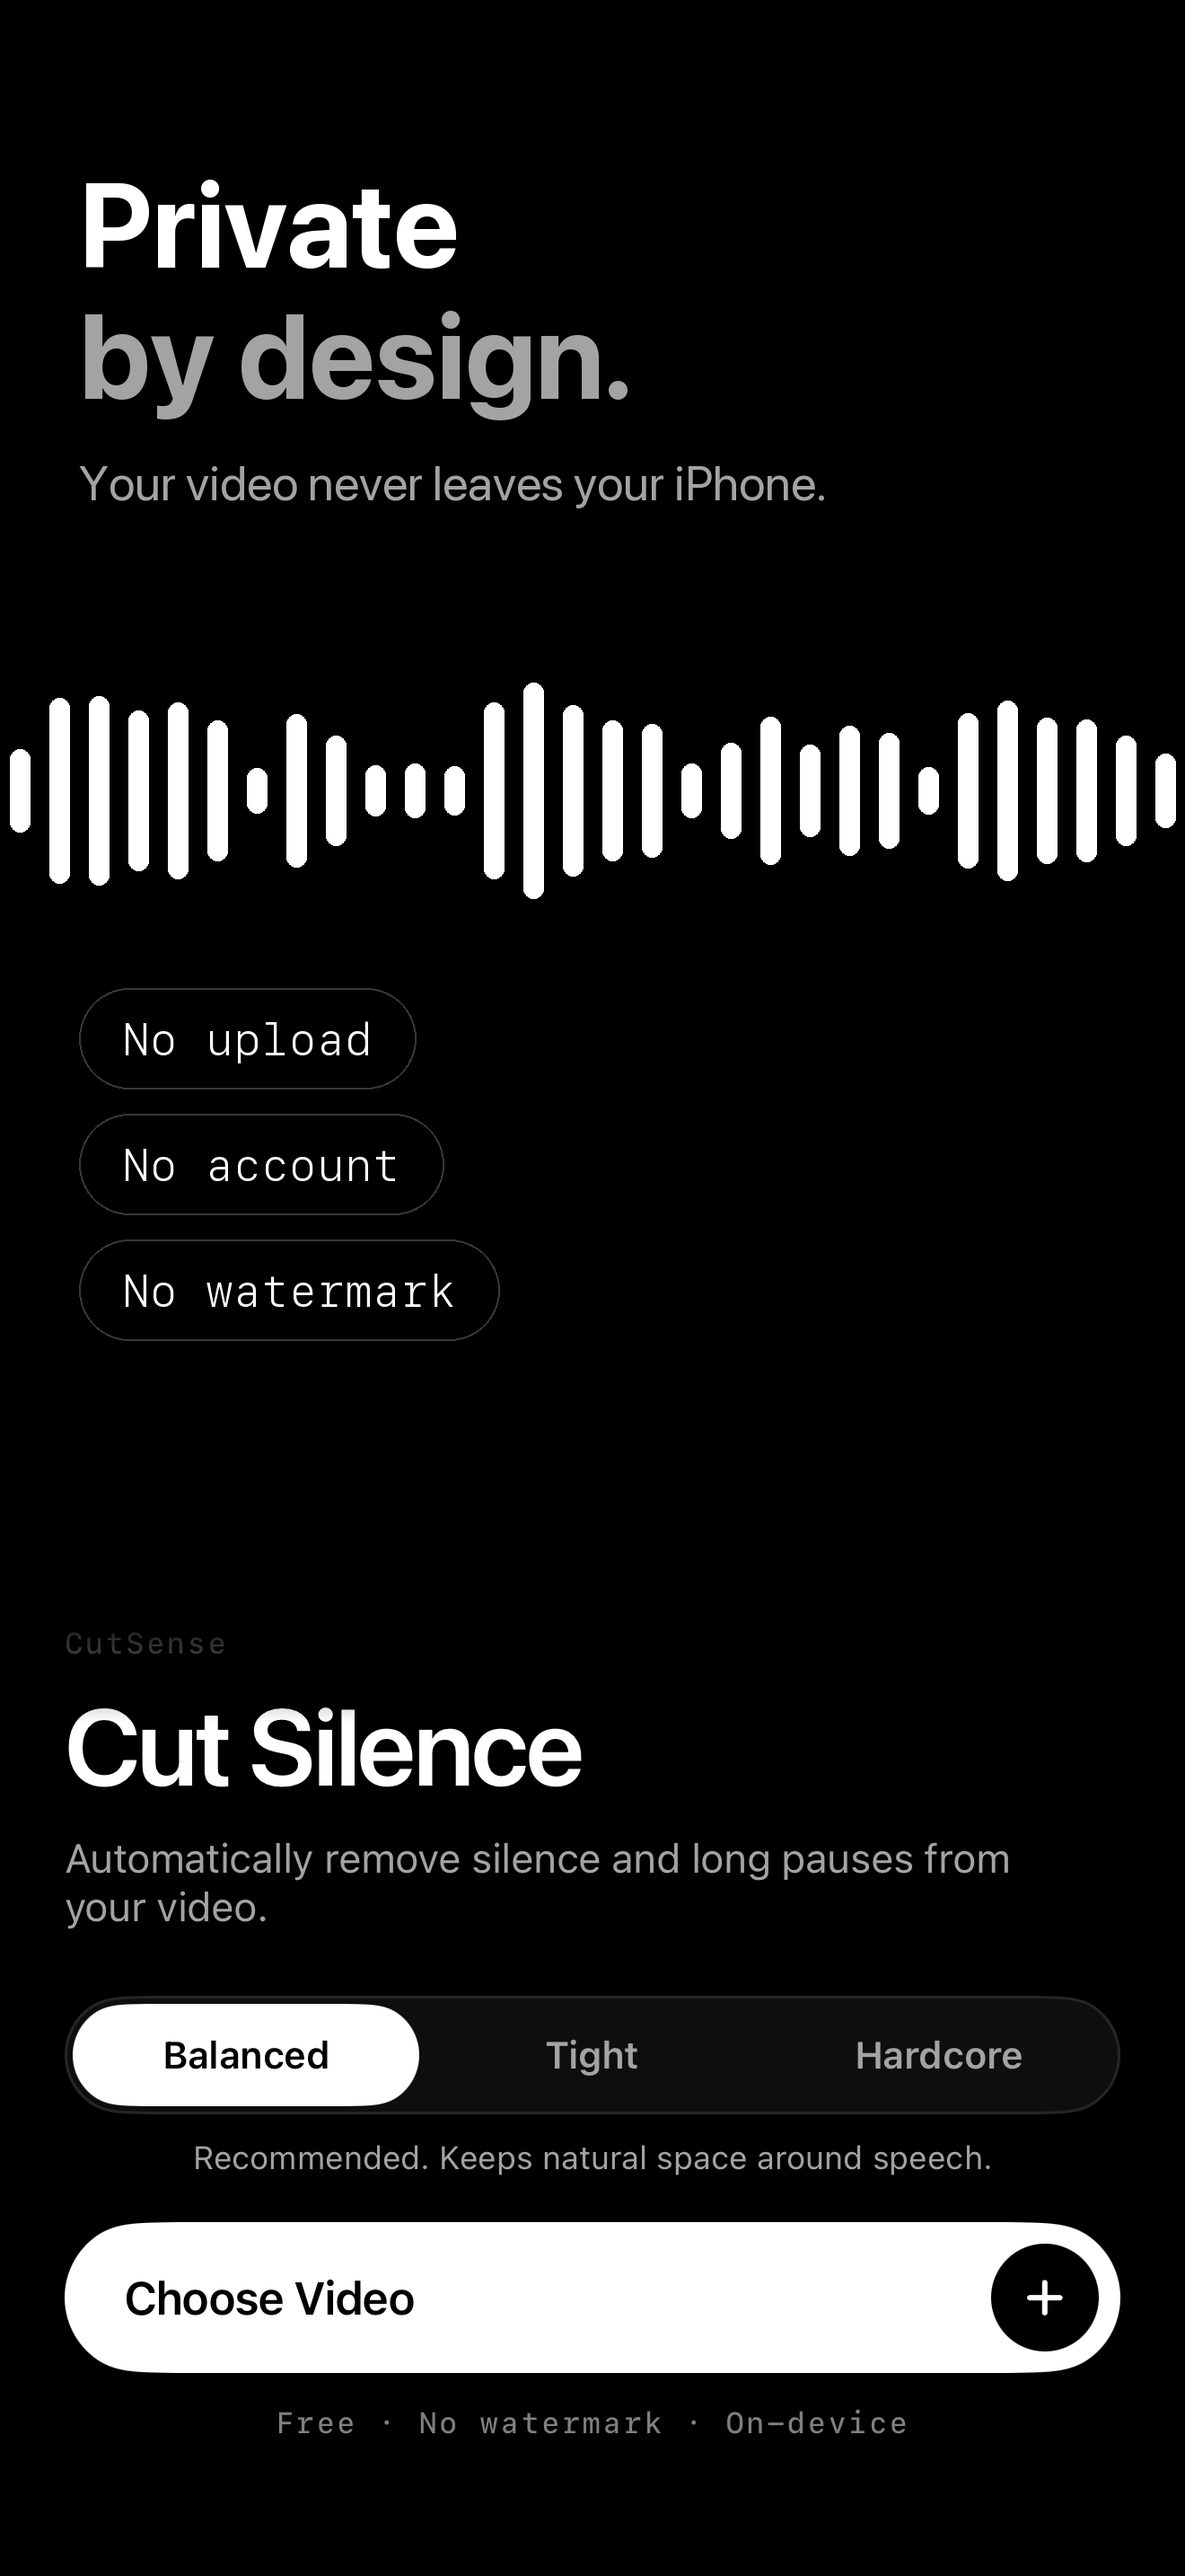
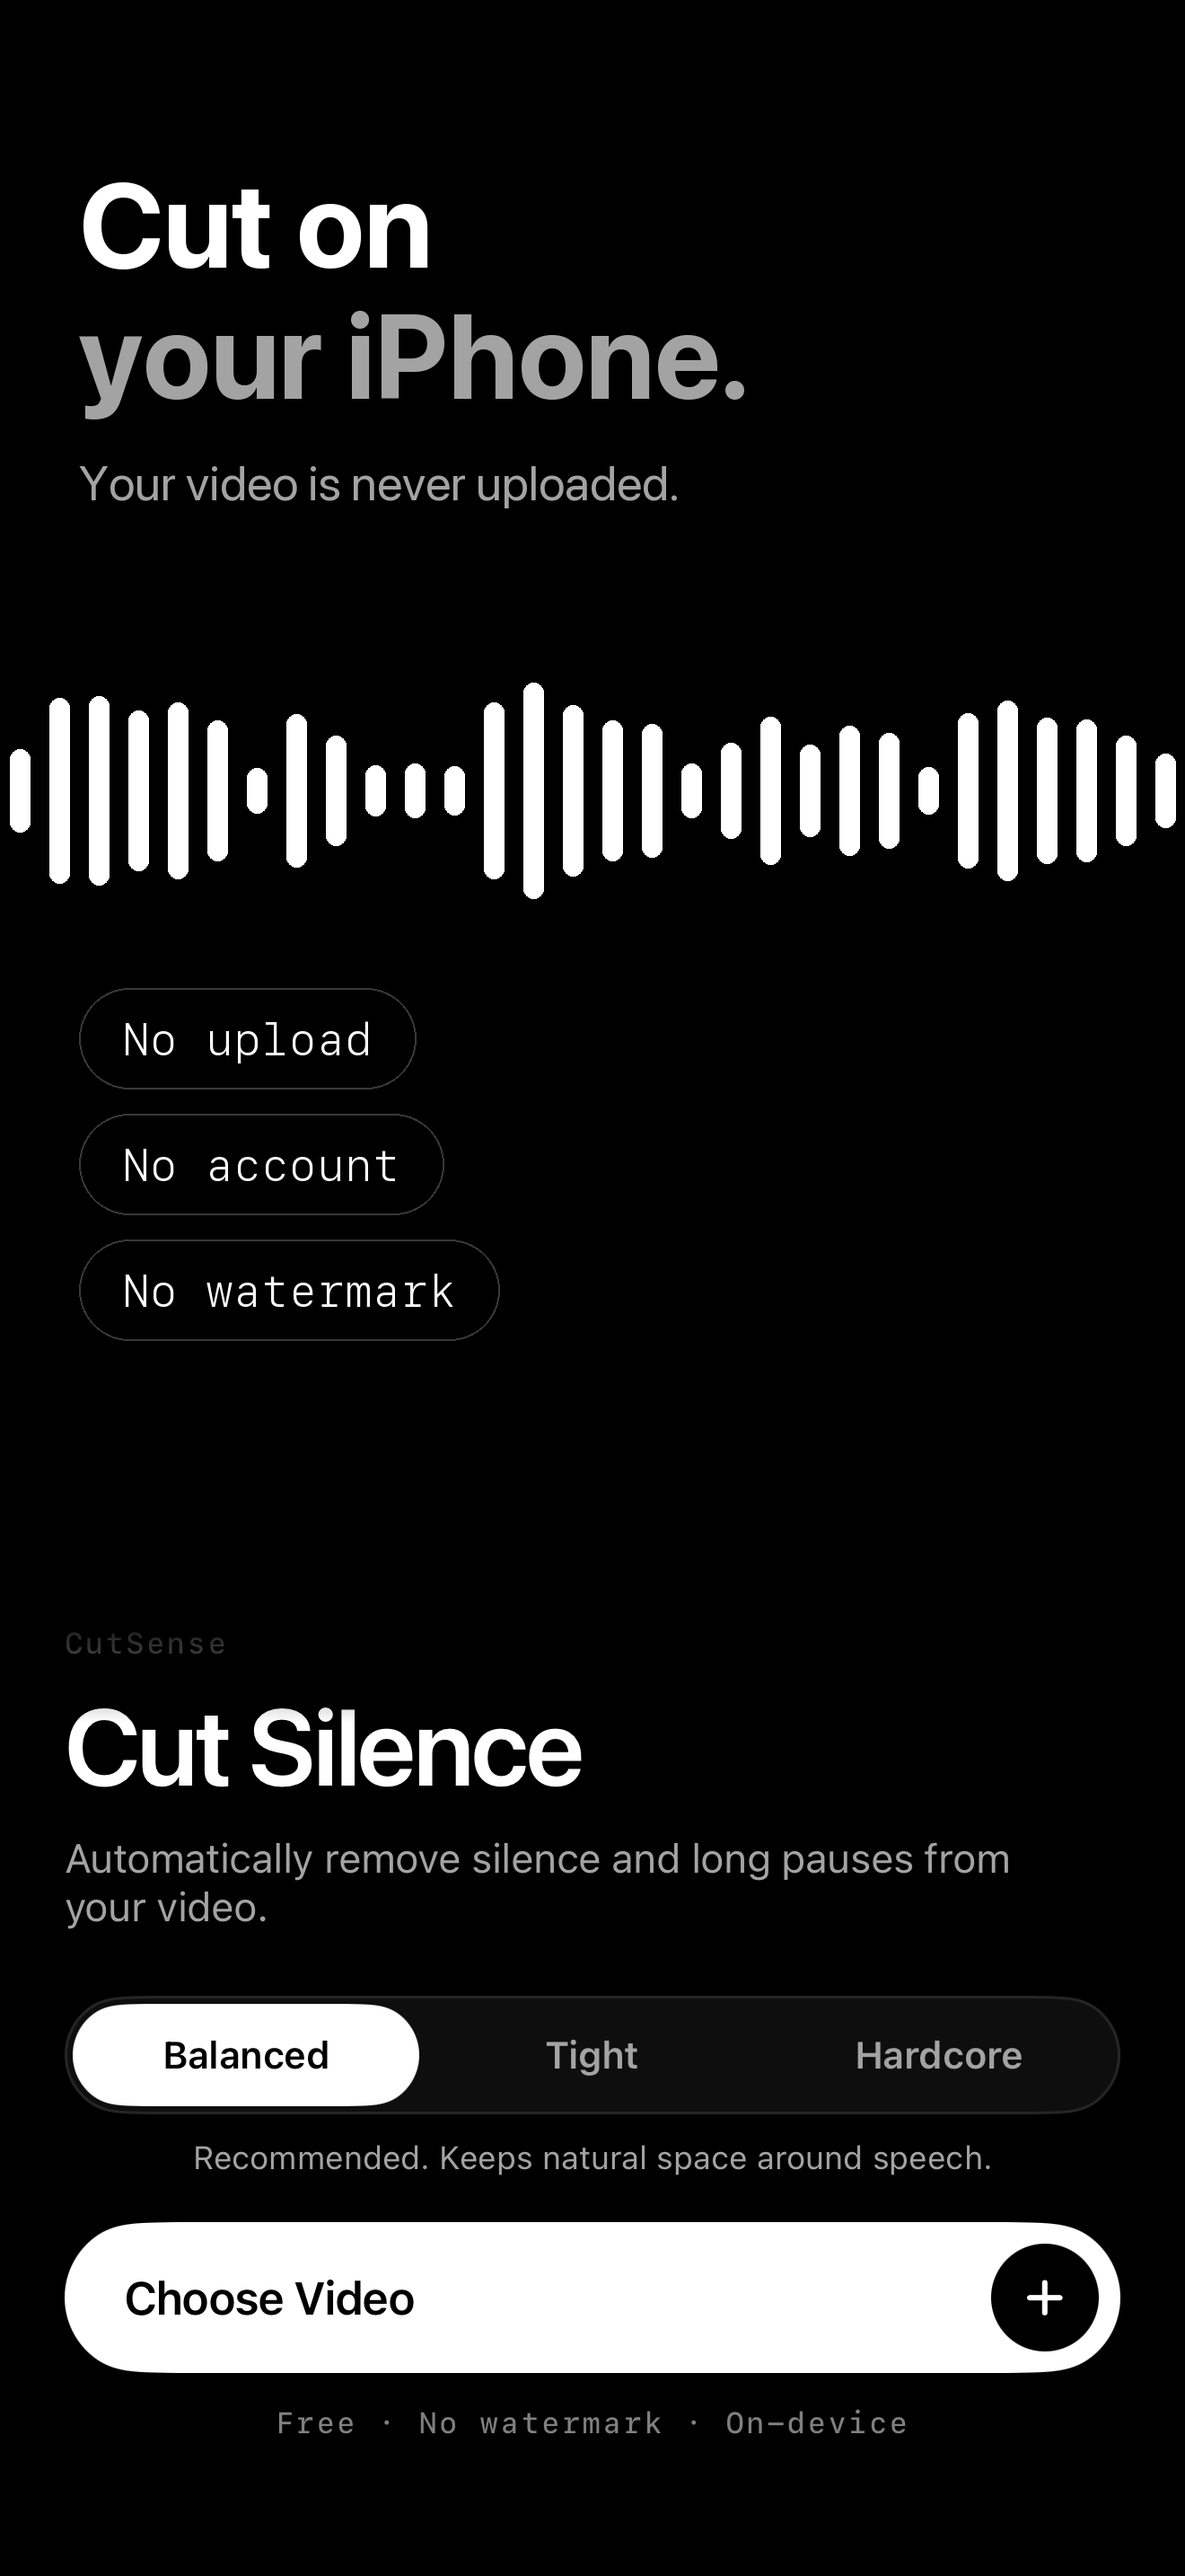
App Store screenshots 1.1.0: tr, es-ES, pt-BR, de-DE, fr-FR, it, ja, ko sets
compose.py takes a locale: per-locale copy, CJK fonts (Hiragino Sans, Apple SD Gothic Neo),
Home and paywall crops measured per capture, fixed subline baseline.
en-US frame 3 headline is now 'Cut on your iPhone.' (was 'Private by design.').

Changed region(s): [[0.0621, 0.0621, 0.6212, 0.2172], [0.6212, 0.1862, 0.6523, 0.2172]]

diff --git a/ios/metadata/screenshots/compose.py b/ios/metadata/screenshots/compose.py
@@ -1,7 +1,8 @@
 """App Store 1.1.0 screenshots: one waveform strip runs through all six frames (docs/store-shots-1.1.0.md).
 
-Usage: python3 compose.py <raw dir with raw_N_*.png> <demo clip>
-Writes en-US-110/01_hook.png ... 06_pro.png and contact.png next to this script.
+Usage: python3 compose.py <raw dir with raw_N_*.png> <demo clip> [locale, default en-US]
+Writes <locale>-110/01_hook.png ... 06_pro.png and contact.png next to this script.
+Raw captures must be in the same app language as the locale's copy (COPY below).
 """
 import subprocess, sys
 from array import array
@@ -9,14 +10,22 @@ from pathlib import Path
 from PIL import Image, ImageDraw, ImageFont
 
 S, CLIP = Path(sys.argv[1]), sys.argv[2]
-OUT = Path(__file__).resolve().parent / 'en-US-110'
+LOC = sys.argv[3] if len(sys.argv) > 3 else 'en-US'
+OUT = Path(__file__).resolve().parent / f'{LOC}-110'
 W, H = 1320, 2868
 X0, MAXW = 88, 1144
 WHITE, GREY = (255, 255, 255), (163, 163, 163)
 SF, MONO = '/System/Library/Fonts/SFNS.ttf', '/System/Library/Fonts/SFNSMono.ttf'
 
 
+CJK = {'ja': ('/System/Library/Fonts/ヒラギノ角ゴシック W7.ttc', 0, '/System/Library/Fonts/ヒラギノ角ゴシック W4.ttc', 0),
+       'ko': ('/System/Library/Fonts/AppleSDGothicNeo.ttc', 6, '/System/Library/Fonts/AppleSDGothicNeo.ttc', 0)}.get(LOC)
+
+
 def sf(size, axes):
+    if CJK:
+        bold = axes[3] >= 700
+        return ImageFont.truetype(CJK[0 if bold else 2], size, index=CJK[1 if bold else 3])
     f = ImageFont.truetype(SF, size)
     f.set_variation_by_axes(axes)  # [width, opsz, grad, weight]
     return f
@@ -24,6 +33,11 @@ def sf(size, axes):
 
 def mono(size):
     return ImageFont.truetype(MONO, size)
+
+
+def label_font(size):
+    """Capsules and strip notes: SF Mono for Latin, the CJK text face otherwise."""
+    return sf(size, [100, 28, 400, 400]) if CJK else mono(size)
 
 
 def bars():
@@ -59,6 +73,9 @@ def strip(d, k, vals, cut):
             d.rounded_rectangle([cx - 11, 880 - h / 2, cx + 11, 880 + h / 2], 11, fill=WHITE)
 
 
+LEAD = 162 if CJK else 146  # CJK glyphs fill the whole em box and need more line gap
+
+
 def title(d, lines, sub, top):
     size = 132
     while max(d.textlength(t, font=sf(size, [100, 96, 400, 700])) for t in lines) > MAXW:
@@ -66,8 +83,8 @@ def title(d, lines, sub, top):
         assert size >= 112, f'title too long: {lines}'
     f = sf(size, [100, 96, 400, 700])
     for i, (t, c) in enumerate(zip(lines, (WHITE, GREY))):
-        d.text((X0, top + i * 146), t, font=f, fill=c)
-    bottom = top + 146 + f.getbbox(lines[1])[3]
+        d.text((X0, top + i * LEAD), t, font=f, fill=c)
+    bottom = top + LEAD + f.getbbox('gpy')[3]  # fixed descender depth: the subline sits at the same y on every frame
     fs = sf(54, [100, 28, 400, 400])
     assert d.textlength(sub, font=fs) <= MAXW, f'subtitle too long: {sub}'
     d.text((X0, bottom + 36), sub, font=fs, fill=GREY)
@@ -96,20 +113,112 @@ def frame(k, vals, cut):
     return c
 
 
-SHOTS = [
-    ('01_hook', 'raw_1_review', ['Cut the silence.', 'Keep the talk.'], 'Free. No watermark. No sign-up.'),
-    ('02_control', 'raw_2_cuts', ['You approve', 'every cut.'], 'Keep any pause before you save.'),
-    ('03_private', 'raw_3_home', ['Private', 'by design.'], 'Your video never leaves your iPhone.'),
-    ('04_levels', 'raw_4_tight', ['Balanced, Tight', 'or Hardcore.'], 'Pick how tight the cut feels.'),
-    ('05_finetune', 'raw_5_finetune', ['Fine-tune', 'every pause.'], 'Set minimum pause and breathing room.'),
-    ('06_pro', 'raw_6_paywall', ['Pay once.', 'No subscription.'], 'Free with ads. Pro removes them for good.'),
-]
+FILES = [('01_hook', 'raw_1_review'), ('02_control', 'raw_2_cuts'), ('03_private', 'raw_3_home'),
+         ('04_levels', 'raw_4_tight'), ('05_finetune', 'raw_5_finetune'), ('06_pro', 'raw_6_paywall')]
 
-# Measured on the 1320x2868 iPhone 17 Pro Max captures (see docs/store-shots-1.1.0.md step 5).
-HOME_TOP = 1817 - 40          # "CutSense" overline on Home
-PAY_TOP = 325 - 40            # "CutSense Pro" overline on the paywall
-PAY_BOTTOM = 1885 + 60        # bottom of the white Pro column; the price CTA starts at y=2195
-SHEET_TOP = 1878              # top edge of the Fine-tune sheet
+# Per locale: six (headline lines, subline), the three Home capsules, the two strip notes on frame 1
+# (the in-app Cut/Keep toggle words).
+# Level and Fine-tune names match Translations.swift so the headline names what the screenshot shows.
+COPY = {
+    'en-US': ([
+        (['Cut the silence.', 'Keep the talk.'], 'Free. No watermark. No sign-up.'),
+        (['You approve', 'every cut.'], 'Keep any pause before you save.'),
+        (['Cut on', 'your iPhone.'], 'Your video is never uploaded.'),
+        (['Balanced, Tight', 'or Hardcore.'], 'Pick how tight the cut feels.'),
+        (['Fine-tune', 'every pause.'], 'Set minimum pause and breathing room.'),
+        (['Pay once.', 'No subscription.'], 'Free with ads. Pro removes them for good.'),
+    ], ('No upload', 'No account', 'No watermark'), ('cut', 'keep')),
+    'tr': ([
+        (['Sessizliği kes.', 'Konuşma kalsın.'], 'Ücretsiz, filigransız, üyeliksiz.'),
+        (['Her kesimi', 'sen onaylarsın.'], 'Kaydetmeden önce dilediğin duraklamayı tut.'),
+        (['Videon', 'iPhone’unda kalır.'], 'Hiçbir sunucuya yüklenmez.'),
+        (['Dengeli, Sıkı', 'ya da Hardcore.'], 'Kesimin ne kadar sıkı olacağını sen seç.'),
+        (['Her duraklamaya', 'ince ayar.'], 'En kısa duraklamayı ve nefes payını ayarla.'),
+        (['Bir kez öde.', 'Abonelik yok.'], 'Ücretsiz sürüm reklamlı. Pro reklamı kaldırır.'),
+    ], ('Yükleme yok', 'Hesap yok', 'Filigran yok'), ('kes', 'kalsın')),
+    'es-ES': ([
+        (['Corta el silencio.', 'Conserva tu voz.'], 'Gratis, sin marca de agua ni registro.'),
+        (['Tú apruebas', 'cada corte.'], 'Mantén cualquier pausa antes de guardar.'),
+        (['Todo ocurre', 'en tu iPhone.'], 'Tus clips nunca se suben a la nube.'),
+        (['Equilibrado, Ajustado', 'o Extremo.'], 'Elige cuánto quieres recortar.'),
+        (['Ajuste fino', 'de cada pausa.'], 'Define la pausa mínima y el margen.'),
+        (['Paga una vez.', 'Sin suscripción.'], 'Gratis con anuncios. Pro los quita para siempre.'),
+    ], ('Sin subidas', 'Sin cuenta', 'Sin marca de agua'), ('cortar', 'mantener')),
+    'pt-BR': ([
+        (['Corte o silêncio.', 'Fique com a fala.'], 'Grátis, sem marca d’água e sem cadastro.'),
+        (['Você aprova', 'cada corte.'], 'Mantenha qualquer pausa antes de salvar.'),
+        (['Tudo acontece', 'no seu iPhone.'], 'Seu vídeo nunca é enviado a servidores.'),
+        (['Equilibrado, Intenso', 'ou Extremo.'], 'Escolha o quanto quer cortar.'),
+        (['Ajuste fino', 'em cada pausa.'], 'Defina a pausa mínima e o respiro.'),
+        (['Pague uma vez.', 'Sem assinatura.'], 'Grátis com anúncios. O Pro remove de vez.'),
+    ], ('Sem upload', 'Sem conta', 'Sem marca d’água'), ('cortar', 'manter')),
+    'de-DE': ([
+        (['Stille raus.', 'Gesagtes bleibt.'], 'Kostenlos, ohne Wasserzeichen und Konto.'),
+        (['Du entscheidest', 'jeden Schnitt.'], 'Behalte jede Pause vor dem Speichern.'),
+        (['Alles passiert', 'auf dem iPhone.'], 'Dein Video wird nie hochgeladen.'),
+        (['Ausgewogen, Straff', 'oder Extrem.'], 'Wähle, wie straff geschnitten wird.'),
+        (['Feinschliff', 'für jede Pause.'], 'Minimale Pause und Puffer einstellen.'),
+        (['Einmal zahlen.', 'Kein Abo.'], 'Gratis mit Werbung. Pro entfernt sie für immer.'),
+    ], ('Kein Upload', 'Kein Konto', 'Kein Wasserzeichen'), ('schneiden', 'behalten')),
+    'fr-FR': ([
+        (['Coupez les blancs.', 'Gardez la parole.'], 'Gratuit, sans filigrane ni inscription.'),
+        (['Vous validez', 'chaque coupe.'], 'Gardez une pause avant d’enregistrer.'),
+        (['Tout se passe', 'sur votre iPhone.'], 'Votre vidéo n’est jamais envoyée.'),
+        (['Équilibré, Serré', 'ou Extrême.'], 'Choisissez l’intensité de la coupe.'),
+        (['Ajustez', 'chaque pause.'], 'Réglez la pause minimale et la marge.'),
+        (['Payez une fois.', 'Sans abonnement.'], 'Gratuit avec pubs. Pro les retire pour de bon.'),
+    ], ('Aucun envoi', 'Aucun compte', 'Aucun filigrane'), ('couper', 'garder')),
+    'it': ([
+        (['Taglia i silenzi.', 'Tieni le parole.'], 'Gratis, senza filigrana né registrazione.'),
+        (['Approvi tu', 'ogni taglio.'], 'Tieni qualsiasi pausa prima di salvare.'),
+        (['Tutto avviene', 'sul tuo iPhone.'], 'Il tuo video non viene mai caricato.'),
+        (['Bilanciato, Deciso', 'o Estremo.'], 'Scegli quanto deve essere netto il taglio.'),
+        (['Regola', 'ogni pausa.'], 'Imposta la pausa minima e il margine.'),
+        (['Paghi una volta.', 'Zero abbonamenti.'], 'Gratis con pubblicità. Pro la toglie per sempre.'),
+    ], ('Nessun upload', 'Nessun account', 'Nessuna filigrana'), ('taglia', 'tieni')),
+    'ja': ([
+        (['無音はカット。', '話はそのまま。'], '無料。透かしなし、登録不要。'),
+        (['どのカットも', 'あなたが決める。'], '保存する前に、残したい間を選べます。'),
+        (['カットは', 'iPhoneの中で。'], '動画はどこにもアップロードされません。'),
+        (['バランス、タイト、', '最大から選べる。'], 'カットの強さを3段階で。'),
+        (['すべての間を', '微調整。'], '最短の間と余白を自分で設定。'),
+        (['買い切り。', 'サブスクなし。'], '無料版は広告つき。Proで広告が消えます。'),
+    ], ('アップロードなし', 'アカウント不要', '透かしなし'), ('カット', '残す')),
+    'ko': ([
+        (['무음은 자르고', '말은 남기고.'], '무료. 워터마크도, 가입도 없습니다.'),
+        (['모든 컷을', '직접 승인하세요.'], '저장 전에 원하는 멈춤을 남길 수 있어요.'),
+        (['컷은', 'iPhone 안에서.'], '동영상은 어디에도 업로드되지 않습니다.'),
+        (['균형, 타이트,', '최대 중에서.'], '원하는 컷 강도를 고르세요.'),
+        (['모든 멈춤을', '세부 조정.'], '최소 멈춤과 여유를 직접 설정하세요.'),
+        (['한 번 구매.', '구독 없음.'], '무료 버전은 광고 포함. Pro는 광고를 없앱니다.'),
+    ], ('업로드 없음', '계정 없음', '워터마크 없음'), ('자르기', '유지')),
+}
+
+SHEET_TOP = 1878              # top edge of the Fine-tune sheet (same in every language)
+
+
+def dark(px, y, x0=60, x1=1260):
+    return all(sum(px[x, y]) < 60 for x in range(x0, x1, 4))
+
+
+def home_top(raw):
+    """40 px above the "CutSense" overline: first text row after the gap under Home's own waveform.
+    Measured per capture because the subtitle wraps to 1 or 2 lines depending on language."""
+    px, y, gap = raw.load(), 1400, 0
+    while gap < 40:
+        gap = gap + 1 if dark(px, y) else 0
+        y += 1
+    while dark(px, y): y += 1
+    return y - 40
+
+
+def pay_crop(raw):
+    """Paywall crop: 40 px above the "CutSense Pro" overline to 60 px under the white Pro column."""
+    px = raw.load()
+    top = next(y for y in range(200, 800) if not dark(px, y, 60, 1100))
+    col = next(y for y in range(600, 1400) if sum(px[1075, y]) > 740)  # inside the white Pro column
+    bottom = next(y for y in range(col, H) if sum(px[1075, y]) < 600)
+    return top - 40, bottom + 60
 
 
 def main():
@@ -118,7 +227,8 @@ def main():
     for old in OUT.glob('*.png'):
         old.unlink()
     outs = []
-    for k, (name, rawname, lines, sub) in enumerate(SHOTS):
+    shots, caps, notes = COPY[LOC]
+    for k, ((name, rawname), (lines, sub)) in enumerate(zip(FILES, shots)):
         raw = Image.open(S / f'{rawname}.png').convert('RGB')
         assert raw.size == (W, H), f'{rawname}: {raw.size}'
         c = frame(k, vals, cut)
@@ -128,9 +238,10 @@ def main():
         title(d, lines, sub, 190 if pro else 170)
 
         if k == 2:
+            HOME_TOP = home_top(raw)
             paste_ui(c, raw, HOME_TOP)
-            f, y = mono(50), 1100
-            for label in ('No upload', 'No account', 'No watermark'):
+            f, y = label_font(50), 1100
+            for label in caps:
                 w = d.textlength(label, font=f) + 2 * 48
                 assert y + 112 <= HOME_TOP, 'capsules overlap the Home crop'
                 ov = Image.new('RGBA', (W, H), (0, 0, 0, 0))
@@ -140,7 +251,8 @@ def main():
                 d.text((X0 + 48, y + 56), label, font=f, fill=WHITE, anchor='lm')
                 y += 112 + 28
         elif k == 5:
-            ui = raw.crop((0, PAY_TOP, W, PAY_BOTTOM))
+            top, bottom = pay_crop(raw)
+            ui = raw.crop((0, top, W, bottom))
             if ui.height > 1740:
                 ui = ui.resize((round(W * 1740 / ui.height), 1740), Image.LANCZOS)
             c.paste(ui, ((W - ui.width) // 2, 1080))
@@ -155,12 +267,13 @@ def main():
                     if sum(px[x, y]) > 90: px[x, y] = (0, 0, 0)
 
         if k == 0:
-            f = mono(30)
+            f = label_font(30)
             first = next(i for i in range(30) if cut[i])
             end = next((i for i in range(first, 30) if not cut[i]), 30)
-            d.text((((first + end) / 2) * 44, 1010), 'cut', font=f, fill=(128, 128, 128), anchor='mt')
+            d.text((((first + end) / 2) * 44, 1010), notes[0], font=f, fill=(128, 128, 128), anchor='mt')
             top = max(range(30), key=lambda i: -1 if cut[i] else vals[i])
-            d.text((top * 44 + 22, 1010), 'kept', font=f, fill=(128, 128, 128), anchor='mt')
+            x = max(top * 44 + 22, d.textlength(notes[1], font=f) / 2 + 40)  # long words stay off the edge
+            d.text((x, 1010), notes[1], font=f, fill=(128, 128, 128), anchor='mt')
 
         path = OUT / f'{name}.png'
         c.save(path, optimize=True)
